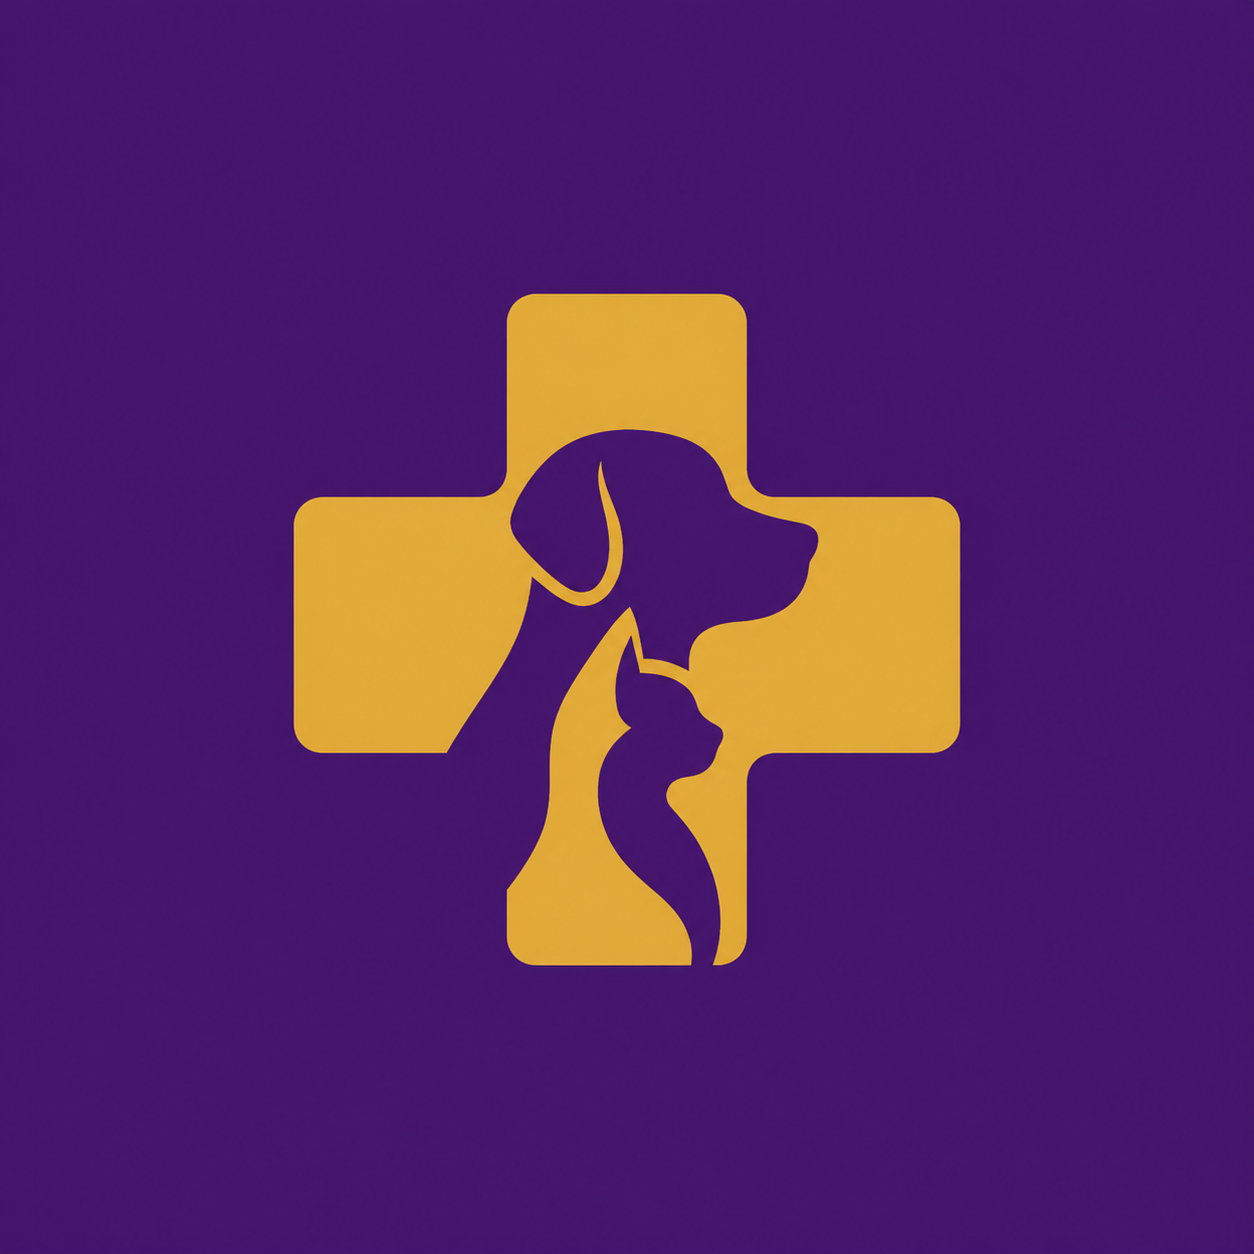
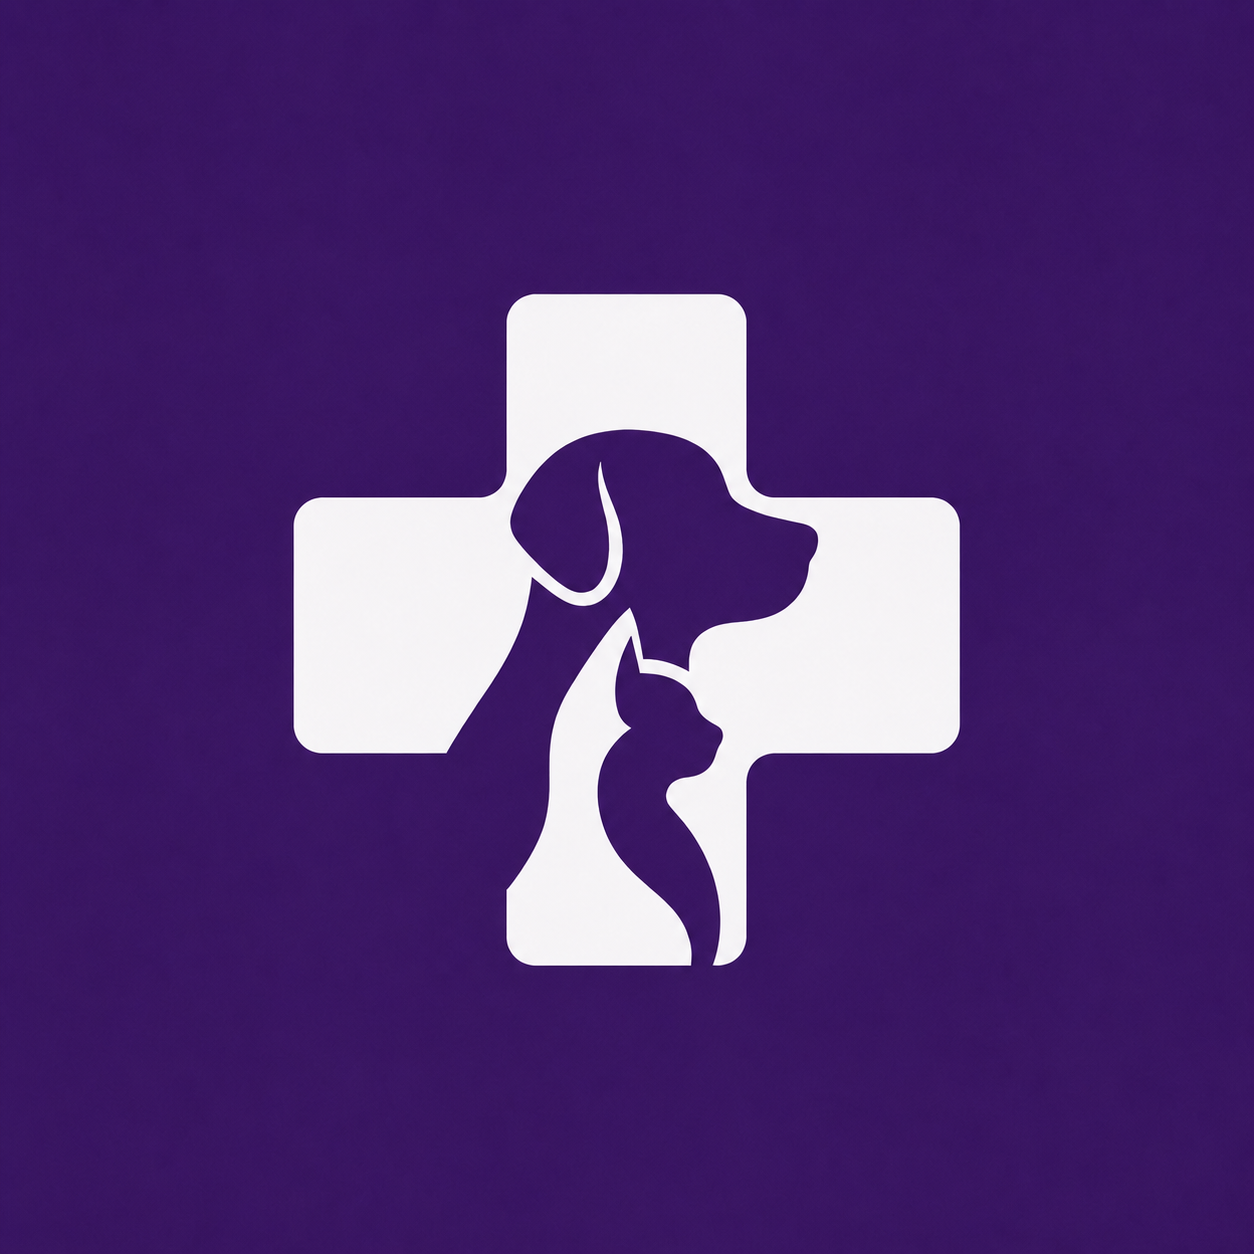
style: cambia el icono de GlobalVet a blanco

Changed region(s): [[0.2177, 0.2177, 0.7775, 0.7775]]

diff --git a/service-worker.js b/service-worker.js
@@ -1,7 +1,7 @@
 // GlobalVet México — Service Worker
 // Cache offline básico de la shell de la app
 
-const CACHE_NAME = 'globalvet-v27';
+const CACHE_NAME = 'globalvet-v28';
 const PRECACHE_URLS = [
   './',
   './index.html',
